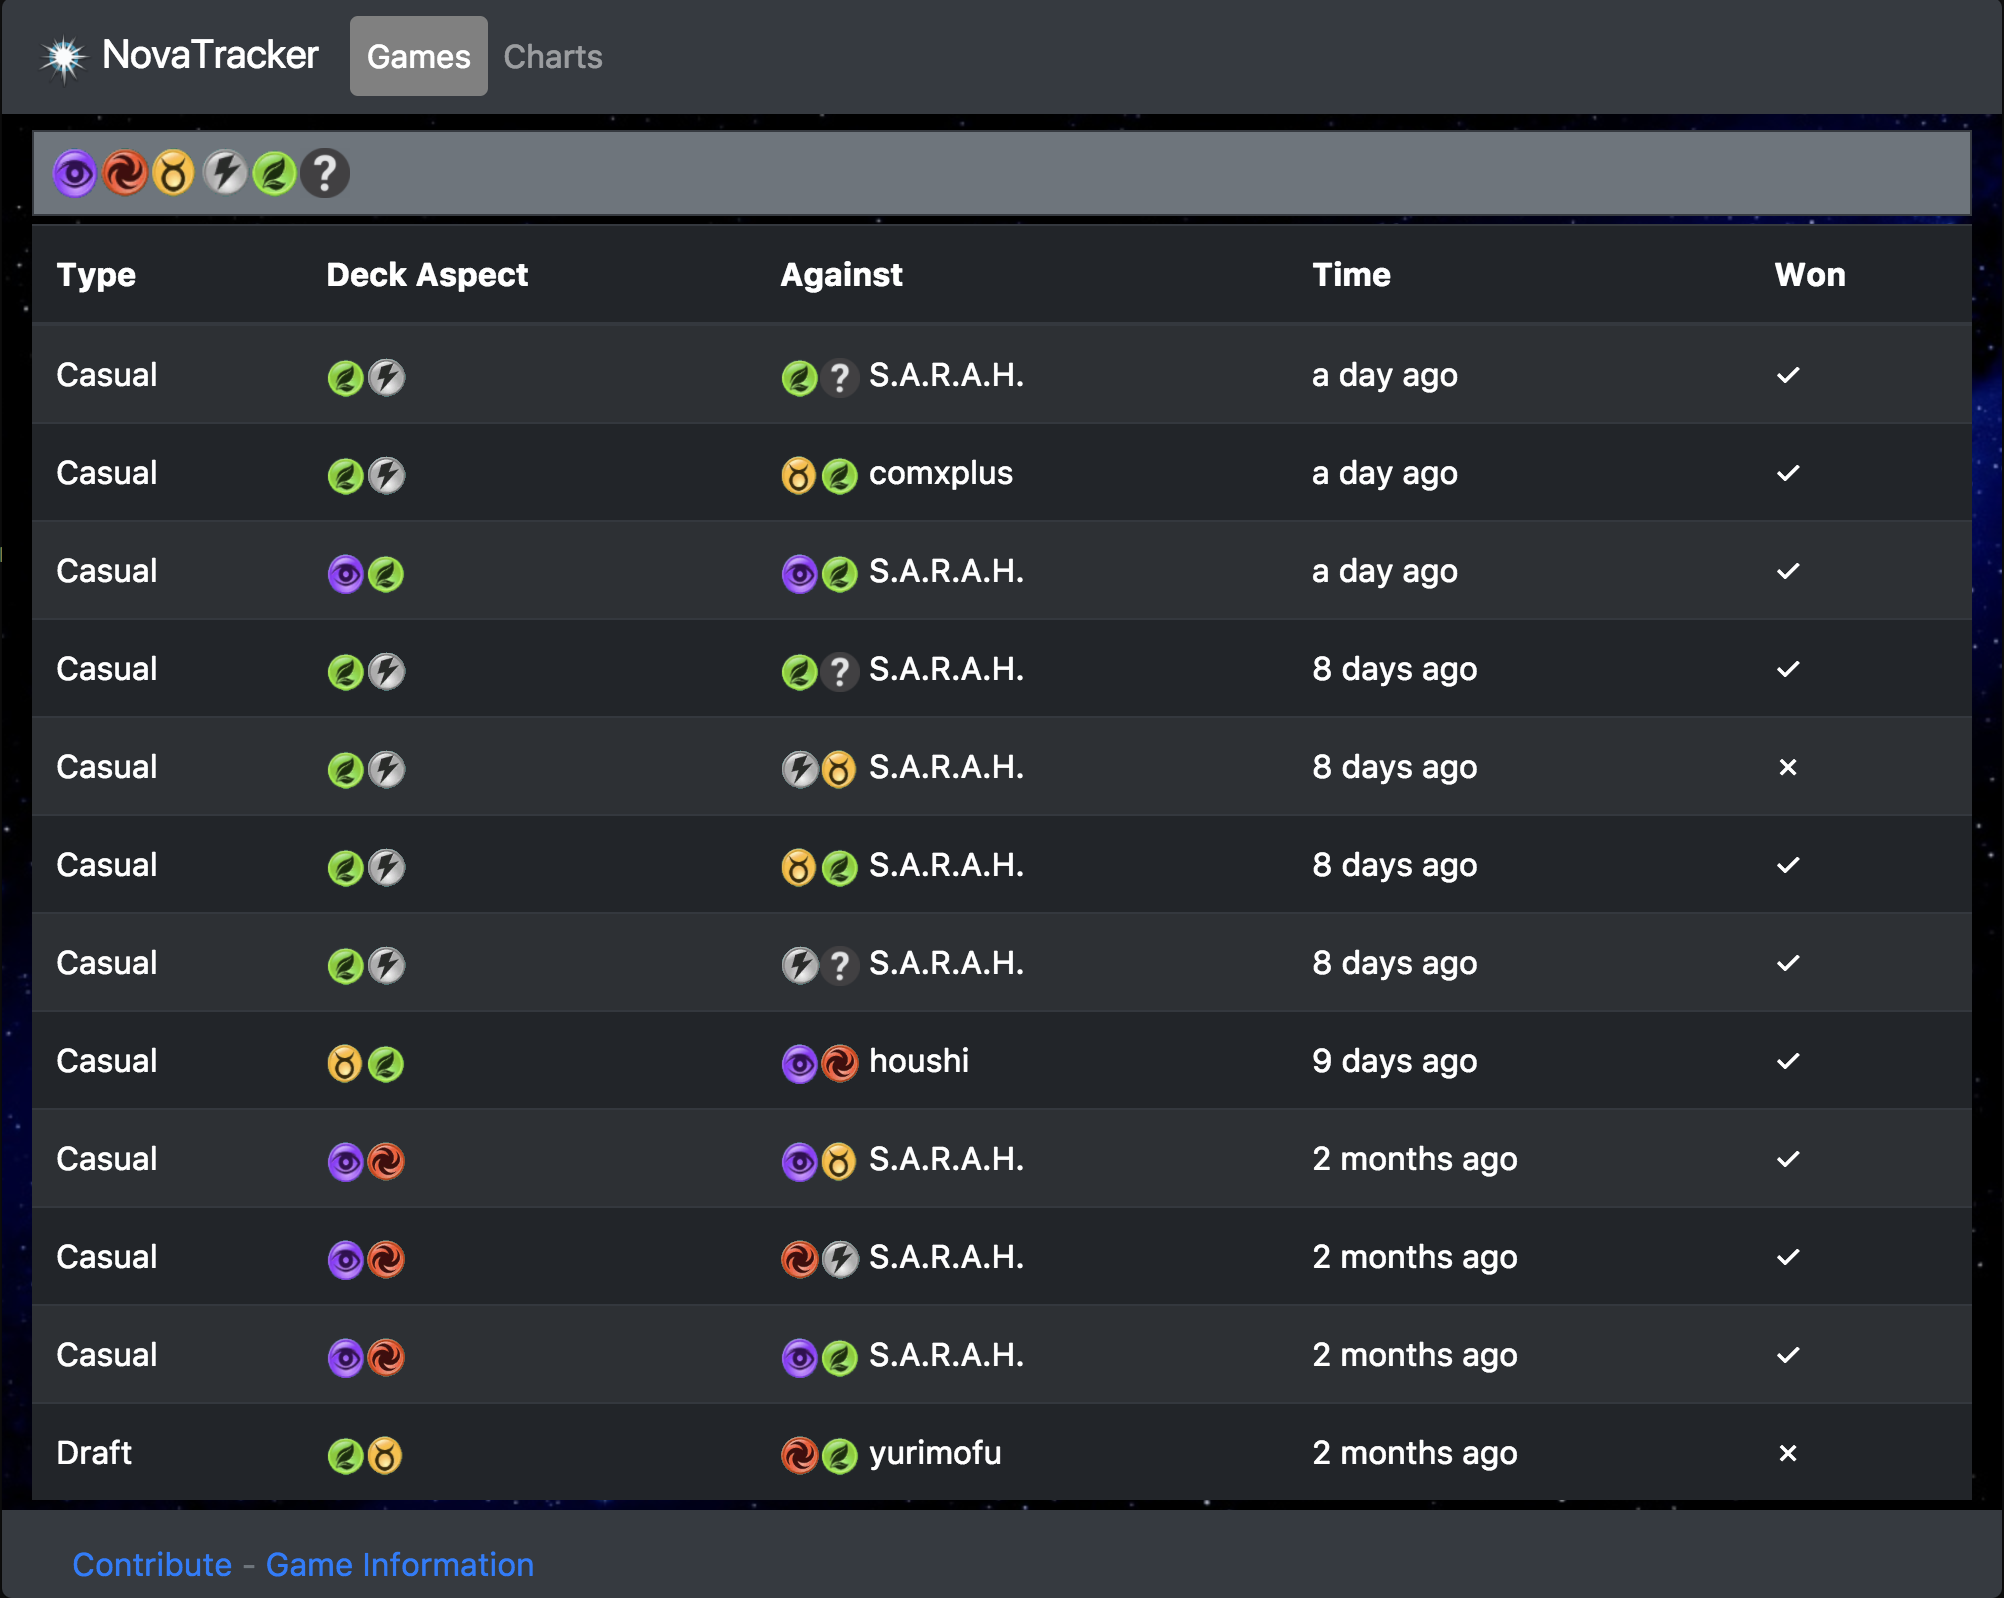
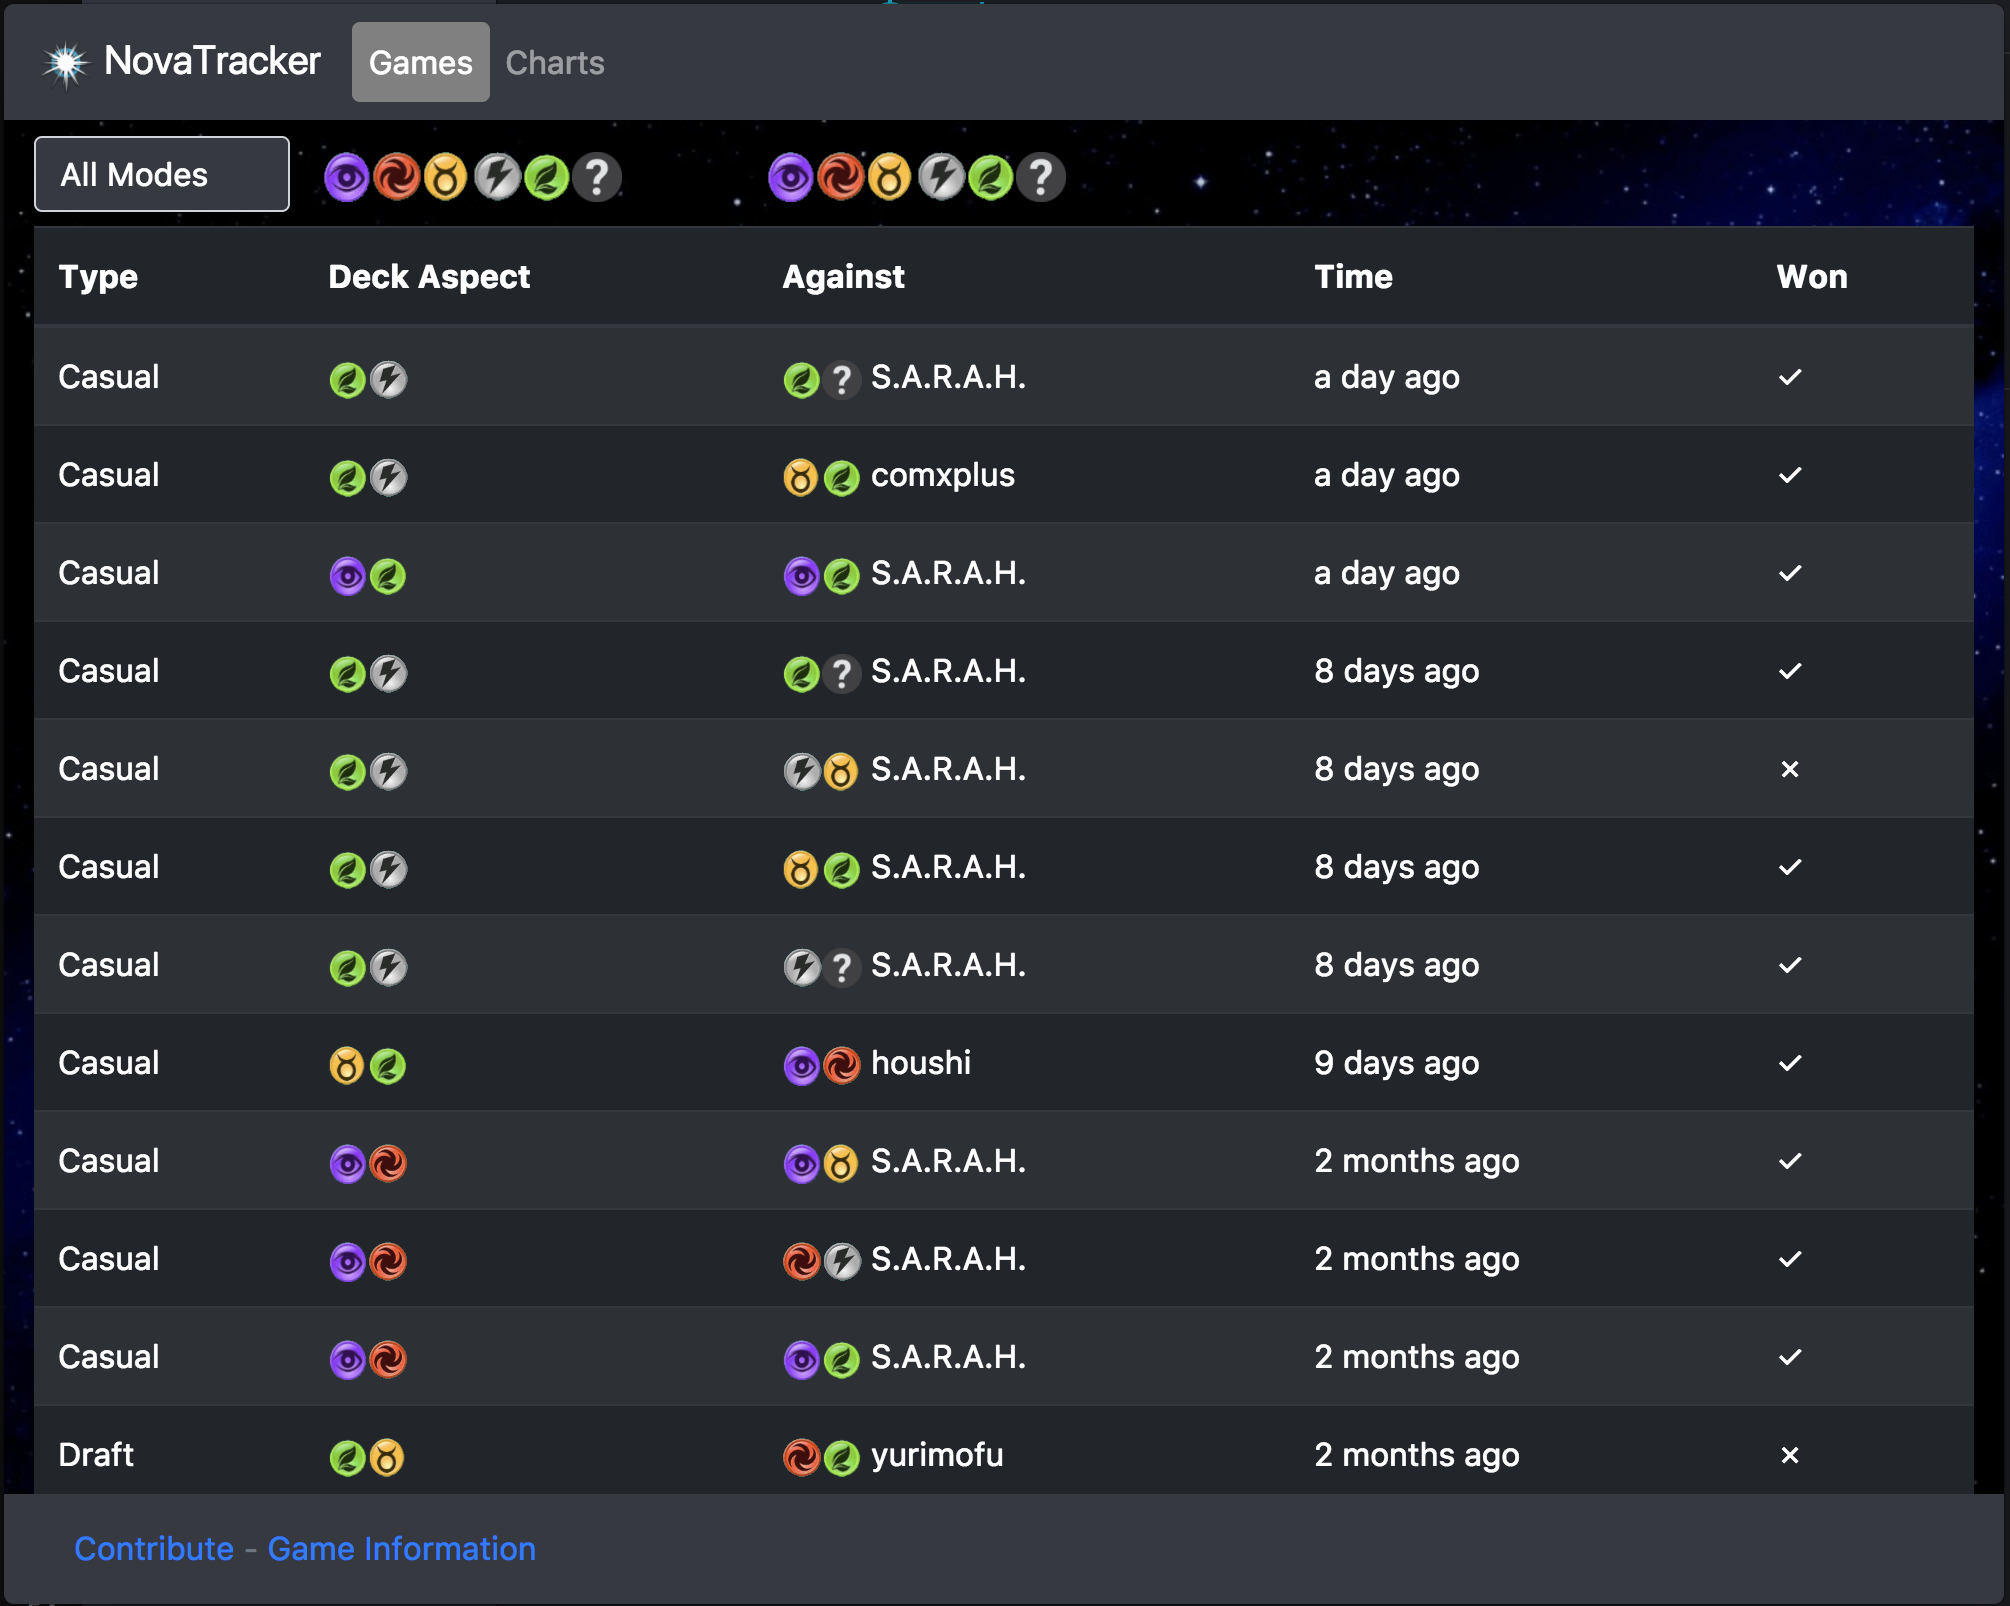
filter each player's deck and by mode

diff --git a/renderer.js b/renderer.js
@@ -72,7 +72,7 @@ function populateTable() {
         var logs = JSON.parse(logs);
         logs.reverse().forEach(game => {
             var aspects = deckAspects(game);
-            if (!$("img.disabled").toArray().map(image => /[ACDTNU]/.exec($(image).attr("src"))[0]).some(aspect => aspects["playerAspects"].concat(aspects["opponentAspects"]).includes(aspect))) {
+            if (!$("img.disabled.playerFilter").toArray().map(image => /[ACDTNU]/.exec($(image).attr("src"))[0]).some(aspect => aspects["playerAspects"].includes(aspect)) && !$("img.disabled.opponentFilter").toArray().map(image => /[ACDTNU]/.exec($(image).attr("src"))[0]).some(aspect => aspects["opponentAspects"].includes(aspect)) && $("option:selected").attr("value").split(",").includes(game["Format"])) {
                 var won = game["IsPlayerWinner"] ? "✓" : "✗";
 
                 opponentAspects = aspects["opponentAspects"].map(aspect => '<img src="images/' + aspect + '.png" height="20" width="20">');
@@ -104,12 +104,12 @@ function populateStats() {
             if (game["IsPlayerWinner"]) {
                 wonGames.push({
                     "playerAspects": aspects["playerAspects"],
-                    "opponent": aspects["opponentAspects"],
+                    "opponentAspects": aspects["opponentAspects"],
                 });
             } else {
                 lostGames.push({
                     "playerAspects": aspects["playerAspects"],
-                    "opponent": aspects["opponentAspects"],
+                    "opponentAspects": aspects["opponentAspects"],
                 });
             }
         });
@@ -232,7 +232,14 @@ function gamePage() {
     $(".active").removeClass("active");
     $("a:contains(Games)").addClass("active");
 
-    $(".container-fluid").append('<div class="bg-secondary border border-dark mt-2 mb-1" id="filters"><img class="ml-2 mt-2 mb-2" src="images/A.png" height="25" width="25"><img class="mt-2 mb-2" src="images/C.png" height="25" width="25"><img class="mt-2 mb-2" src="images/D.png" height="25" width="25"><img class="mt-2 mb-2" src="images/T.png" height="25" width="25"><img class="mt-2 mb-2" src="images/N.png" height="25" width="25"><img class="mt-2 mb-2" src="images/U.png" height="25" width="25"></div>');
+    $(".container-fluid").append(`<div class="mt-2 mb-1">
+                                    <select class="custom-select float-left mb-1 bg-dark text-white" style="width: 8rem;">
+                                      <option value="Casual,Draft" selected>All Modes</option>
+                                      <option value="Casual">Casual</option>
+                                      <option value="Draft">Draft</option>
+                                    </select>
+                                    <img class="ml-3 mt-2 mb-2 playerFilter" src="images/A.png" height="25" width="25"><img class="mt-2 mb-2 playerFilter" src="images/C.png" height="25" width="25"><img class="mt-2 mb-2 playerFilter" src="images/D.png" height="25" width="25"><img class="mt-2 mb-2 playerFilter" src="images/T.png" height="25" width="25"><img class="mt-2 mb-2 playerFilter" src="images/N.png" height="25" width="25"><img class="mt-2 mb-2 mr-5 playerFilter" src="images/U.png" height="25" width="25"><img class="ml-4 mt-2 mb-2 opponentFilter" src="images/A.png" height="25" width="25"><img class="mt-2 mb-2 opponentFilter" src="images/C.png" height="25" width="25"><img class="mt-2 mb-2 opponentFilter" src="images/D.png" height="25" width="25"><img class="mt-2 mb-2 opponentFilter" src="images/T.png" height="25" width="25"><img class="mt-2 mb-2 opponentFilter" src="images/N.png" height="25" width="25"><img class="mt-2 mb-2 opponentFilter" src="images/U.png" height="25" width="25">
+                                 </div>`);
 
     $(".container-fluid").append(`<table class="table table-dark table-striped table-hover">
                 <thead>
@@ -254,13 +261,17 @@ function gamePage() {
 
     populateTable();
 
-    $("#filters").find("img").click(function(e) {
+    $(".playerFilter, .opponentFilter").click(function(e) {
         if ($(this).hasClass("disabled")) {
             $(this).removeClass("disabled");
         } else {
             $(this).addClass("disabled");
         }
 
+        populateTable();
+    });
+
+    $("select").change(function(e) {
         populateTable();
     });
 }

diff --git a/styles.css b/styles.css
@@ -26,13 +26,22 @@ body {
 }
 
 .footer {
-  position: absolute;
+  position: fixed;
   bottom: 0;
   width: 100%;
   height: 55px;
   line-height: 55px;
   background-color: #343a40;
 }
+
 img.disabled {
-    opacity:0.5;
+    opacity: 0.5;
+}
+
+.container-fluid {
+  padding-bottom: 10px;
+}
+
+select {
+  background: #343a40;
 }
